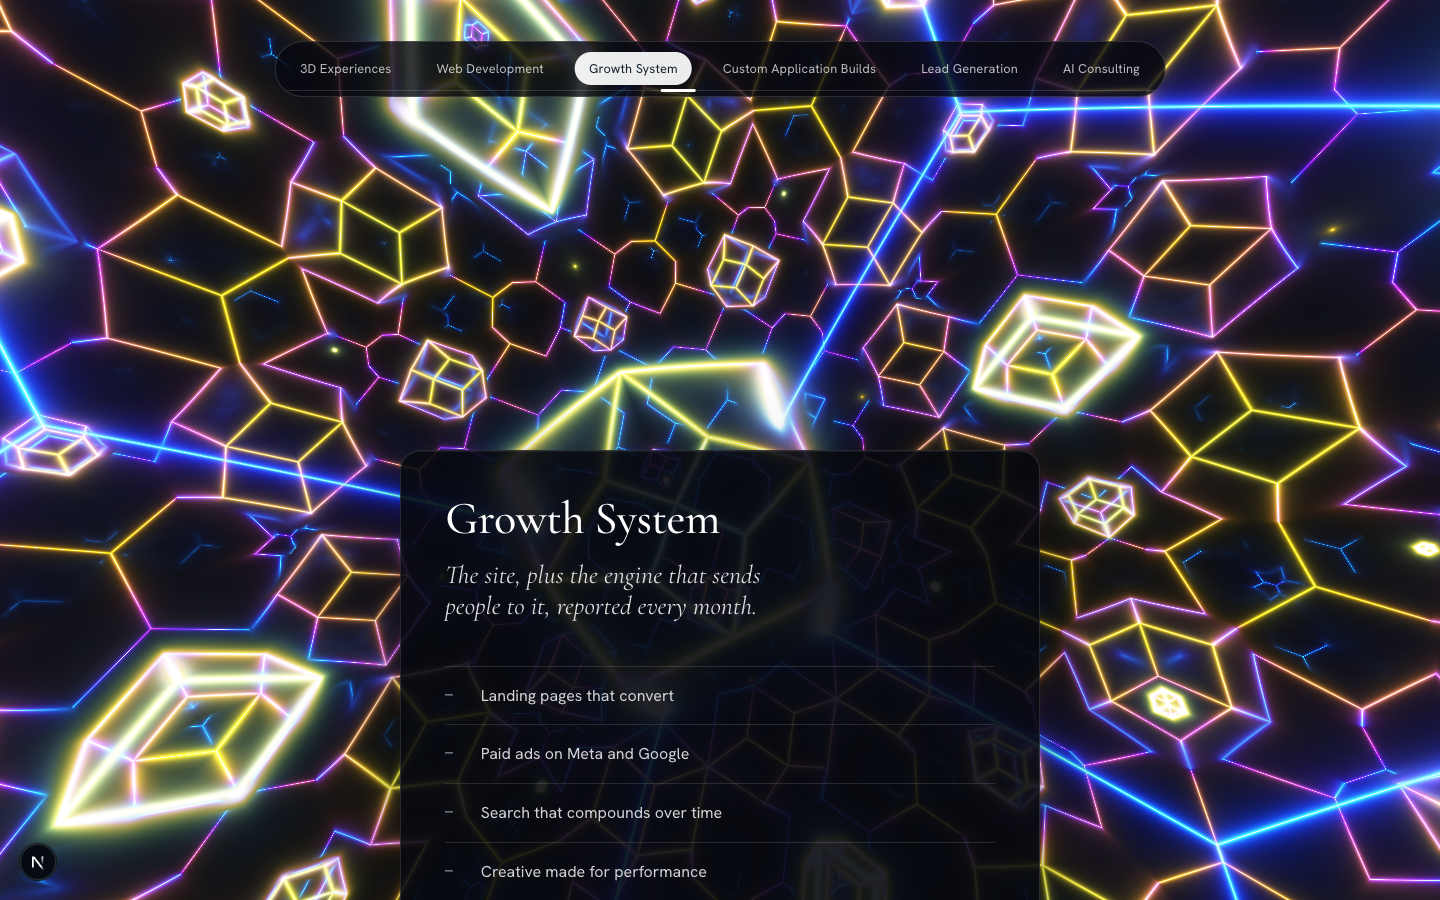
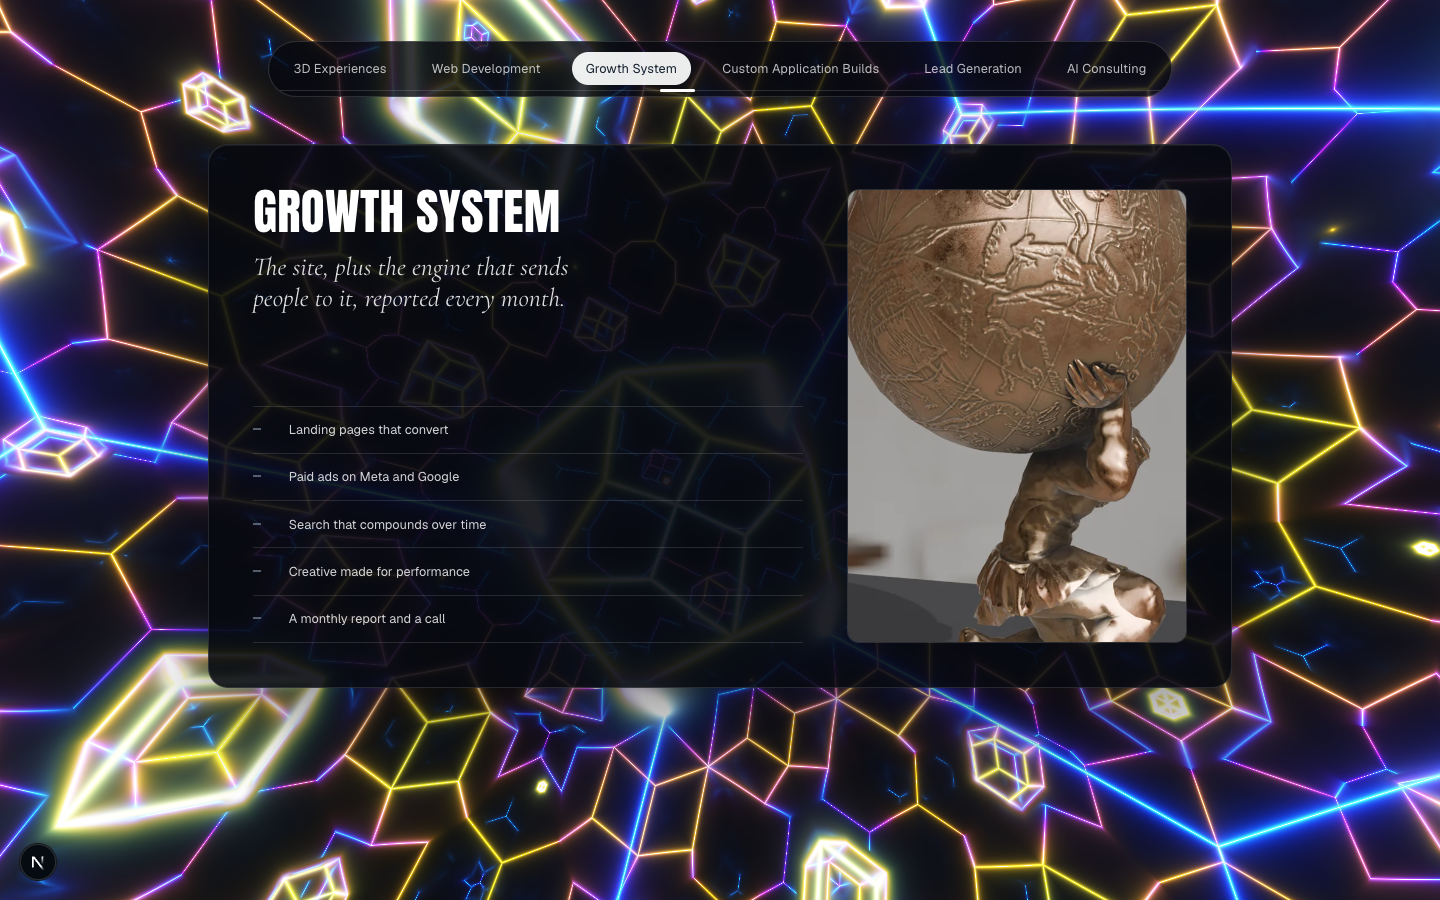
Service cards: wordmark titles, Geist body, an image on every card, panel fixed under the tab bar, stand in images from our renders
Claude-Session: https://claude.ai/code/session_01NAdPXLUXCGhh82qBsMYyAh

diff --git a/src/app/globals.css b/src/app/globals.css
@@ -15,7 +15,7 @@
   --ink-soft: rgba(20, 32, 46, 0.72);
 
   --font-display: var(--font-display-src), "Cormorant Garamond", "Times New Roman", serif;
-  --font-body: var(--font-body-src), "Hanken Grotesk", system-ui, sans-serif;
+  --font-body: var(--font-body-src), Geist, system-ui, sans-serif;
   --font-wordmark: var(--font-wordmark-src), Anton, Impact, "Arial Narrow Bold", sans-serif;
 
   /* type scale, 1.25 ratio from 1rem */
@@ -504,15 +504,19 @@ footer.section {
 .tabs__panels {
   position: absolute;
   left: 50%;
-  top: 50%;
-  transform: translate(-50%, -50%);
-  width: min(61.8vw, 40rem);
+  top: clamp(6rem, 17vh, 9rem);
+  transform: translateX(-50%);
+  width: min(76vw, 64rem);
+  height: min(61.8vh, 34rem);
 }
 .tabs__panel {
   position: absolute;
-  inset: 0 auto auto 0;
-  width: 100%;
-  padding: calc(var(--pad) * var(--phi)) calc(var(--pad) * var(--phi));
+  inset: 0;
+  display: grid;
+  grid-template-columns: 1fr 0.618fr;
+  gap: calc(var(--pad) * var(--phi));
+  padding: calc(var(--pad) * var(--phi));
+  overflow: hidden;
   border-radius: 1.25rem;
   background: rgba(7, 9, 15, 0.9);
   backdrop-filter: blur(22px) saturate(1.1);
@@ -541,13 +545,33 @@ footer.section {
   transform: none;
   transition-delay: calc(90ms + var(--i) * 70ms);
 }
+.tabs__text {
+  display: flex;
+  flex-direction: column;
+  min-width: 0;
+}
 .tabs__title {
   margin: 0 0 calc(var(--pad) / var(--phi));
-  font-family: var(--font-display);
-  font-weight: 500;
-  font-size: clamp(var(--step-3), 3.2vw, var(--step-5));
-  line-height: 1.02;
-  letter-spacing: -0.01em;
+  font-family: var(--font-wordmark);
+  font-weight: 400;
+  text-transform: uppercase;
+  font-size: clamp(var(--step-3), 3.4vw, var(--step-6));
+  line-height: 0.92;
+  letter-spacing: 0.005em;
+}
+.tabs__figure {
+  margin: 0;
+  border-radius: 0.75rem;
+  overflow: hidden;
+  align-self: stretch;
+  background: rgba(255, 255, 255, 0.04);
+  border: 1px solid rgba(255, 255, 255, 0.1);
+}
+.tabs__figure img {
+  width: 100%;
+  height: 100%;
+  object-fit: cover;
+  display: block;
 }
 .tabs__lead {
   margin: 0;
@@ -560,17 +584,18 @@ footer.section {
   text-wrap: balance;
 }
 .tabs__points {
-  margin: calc(var(--pad) * var(--phi)) 0 0;
-  padding: 0;
+  margin: auto 0 0;
+  padding-top: var(--pad);
+  padding-left: 0;
   list-style: none;
   display: grid;
   gap: 0;
   font-family: var(--font-body);
-  font-size: var(--step-0);
+  font-size: var(--step--1);
   color: rgba(255, 255, 255, 0.82);
 }
 .tabs__points li {
-  padding: calc(var(--pad) / var(--phi)) 0;
+  padding: calc(var(--pad) / var(--phi) / 1.25) 0;
   border-top: 1px solid rgba(255, 255, 255, 0.12);
   display: flex;
   align-items: baseline;
@@ -591,6 +616,8 @@ footer.section {
   .tabs, .tabs__heading, .tabs__panel { transition: none; }
 }
 @media (max-width: 820px) {
-  .tabs__panels { width: calc(100vw - 2rem); top: 56%; }
+  .tabs__panels { width: calc(100vw - 2rem); top: 5.5rem; height: auto; bottom: 2rem; }
+  .tabs__panel { grid-template-columns: 1fr; }
+  .tabs__figure { display: none; }
   .tabs__bar { top: 0.75rem; }
 }

diff --git a/src/portal/services.ts b/src/portal/services.ts
@@ -1,34 +1,46 @@
 /** The six services shown inside the laptop, in rail order. Plain, specific, sentence case. */
-export type Service = { title: string; lead: string; points: string[] };
+export type Service = { title: string; lead: string; points: string[]; image: string; alt: string };
 
 export const SERVICES: Service[] = [
   {
     title: "3D Experiences",
+    image: "/images/services/3d.webp",
+    alt: "A lattice of neon crystals rendered live",
     lead: "Scroll driven worlds like this one, built to run at sixty frames a second.",
     points: ["Real time 3D on the web", "Scroll choreography and motion", "Shader and particle effects", "Interactive product and brand pieces"],
   },
   {
     title: "Web Development",
+    image: "/images/services/web.webp",
+    alt: "An open laptop on a marble column against the sky",
     lead: "Sites that load fast, read well and still look right in five years.",
     points: ["Design and build in one team", "Redesigns of tired sites", "Structure that turns visits into enquiries", "Speed and accessibility as standard"],
   },
   {
     title: "Growth System",
+    image: "/images/services/growth.webp",
+    alt: "A bronze figure carrying a globe",
     lead: "The site, plus the engine that sends people to it, reported every month.",
     points: ["Landing pages that convert", "Paid ads on Meta and Google", "Search that compounds over time", "Creative made for performance", "A monthly report and a call"],
   },
   {
     title: "Custom Application Builds",
+    image: "/images/services/apps.webp",
+    alt: "A marble hand holding a small temple",
     lead: "Software shaped around how your business actually runs.",
     points: ["Internal tools and dashboards", "Client portals and booking", "Integrations with what you already use"],
   },
   {
     title: "Lead Generation",
+    image: "/images/services/leads.webp",
+    alt: "A fluted marble column",
     lead: "Cold outbound that puts qualified calls in the calendar.",
     points: ["Targeting and list building", "Copy that gets replies", "Warm up, sending and follow up handled"],
   },
   {
     title: "AI Consulting",
+    image: "/images/services/ai.webp",
+    alt: "A marble figure, close up",
     lead: "Where AI fits your business, and where it does not.",
     points: ["An honest audit of your workflows", "Build or buy, decided with numbers", "Rollout with your team, not around them"],
   },

diff --git a/src/hero/ServiceTabs.tsx b/src/hero/ServiceTabs.tsx
@@ -62,13 +62,18 @@ export function ServiceTabs() {
       <div className="tabs__panels">
         {SERVICES.map((s, i) => (
           <section key={s.title} id={`service-${i}`} role="tabpanel" className={`tabs__panel${active === i ? " is-open" : ""}`} aria-hidden={active !== i}>
-            <h3 className="tabs__title tabs__in" style={{ "--i": 0 } as React.CSSProperties}>{s.title}</h3>
-            <p className="tabs__lead tabs__in" style={{ "--i": 1 } as React.CSSProperties}>{s.lead}</p>
-            {s.points.length > 0 && (
-              <ul className="tabs__points">
-                {s.points.map((p, j) => <li key={p} className="tabs__in" style={{ "--i": 2 + j * 0.5 } as React.CSSProperties}>{p}</li>)}
-              </ul>
-            )}
+            <div className="tabs__text">
+              <h3 className="tabs__title tabs__in" style={{ "--i": 0 } as React.CSSProperties}>{s.title}</h3>
+              <p className="tabs__lead tabs__in" style={{ "--i": 1 } as React.CSSProperties}>{s.lead}</p>
+              {s.points.length > 0 && (
+                <ul className="tabs__points">
+                  {s.points.map((p, j) => <li key={p} className="tabs__in" style={{ "--i": 2 + j * 0.5 } as React.CSSProperties}>{p}</li>)}
+                </ul>
+              )}
+            </div>
+            <figure className="tabs__figure tabs__in" style={{ "--i": 1.5 } as React.CSSProperties}>
+              <img src={s.image} alt={s.alt} loading="lazy" width={1200} height={742} />
+            </figure>
           </section>
         ))}
       </div>

diff --git a/src/app/layout.tsx b/src/app/layout.tsx
@@ -1,5 +1,5 @@
 import type { Metadata } from "next";
-import { Anton, Cormorant_Garamond, Hanken_Grotesk } from "next/font/google";
+import { Anton, Cormorant_Garamond, Geist } from "next/font/google";
 import "./globals.css";
 
 const display = Cormorant_Garamond({
@@ -15,7 +15,7 @@ const wordmark = Anton({
   weight: "400",
 });
 
-const body = Hanken_Grotesk({
+const body = Geist({
   variable: "--font-body-src",
   subsets: ["latin"],
 });
